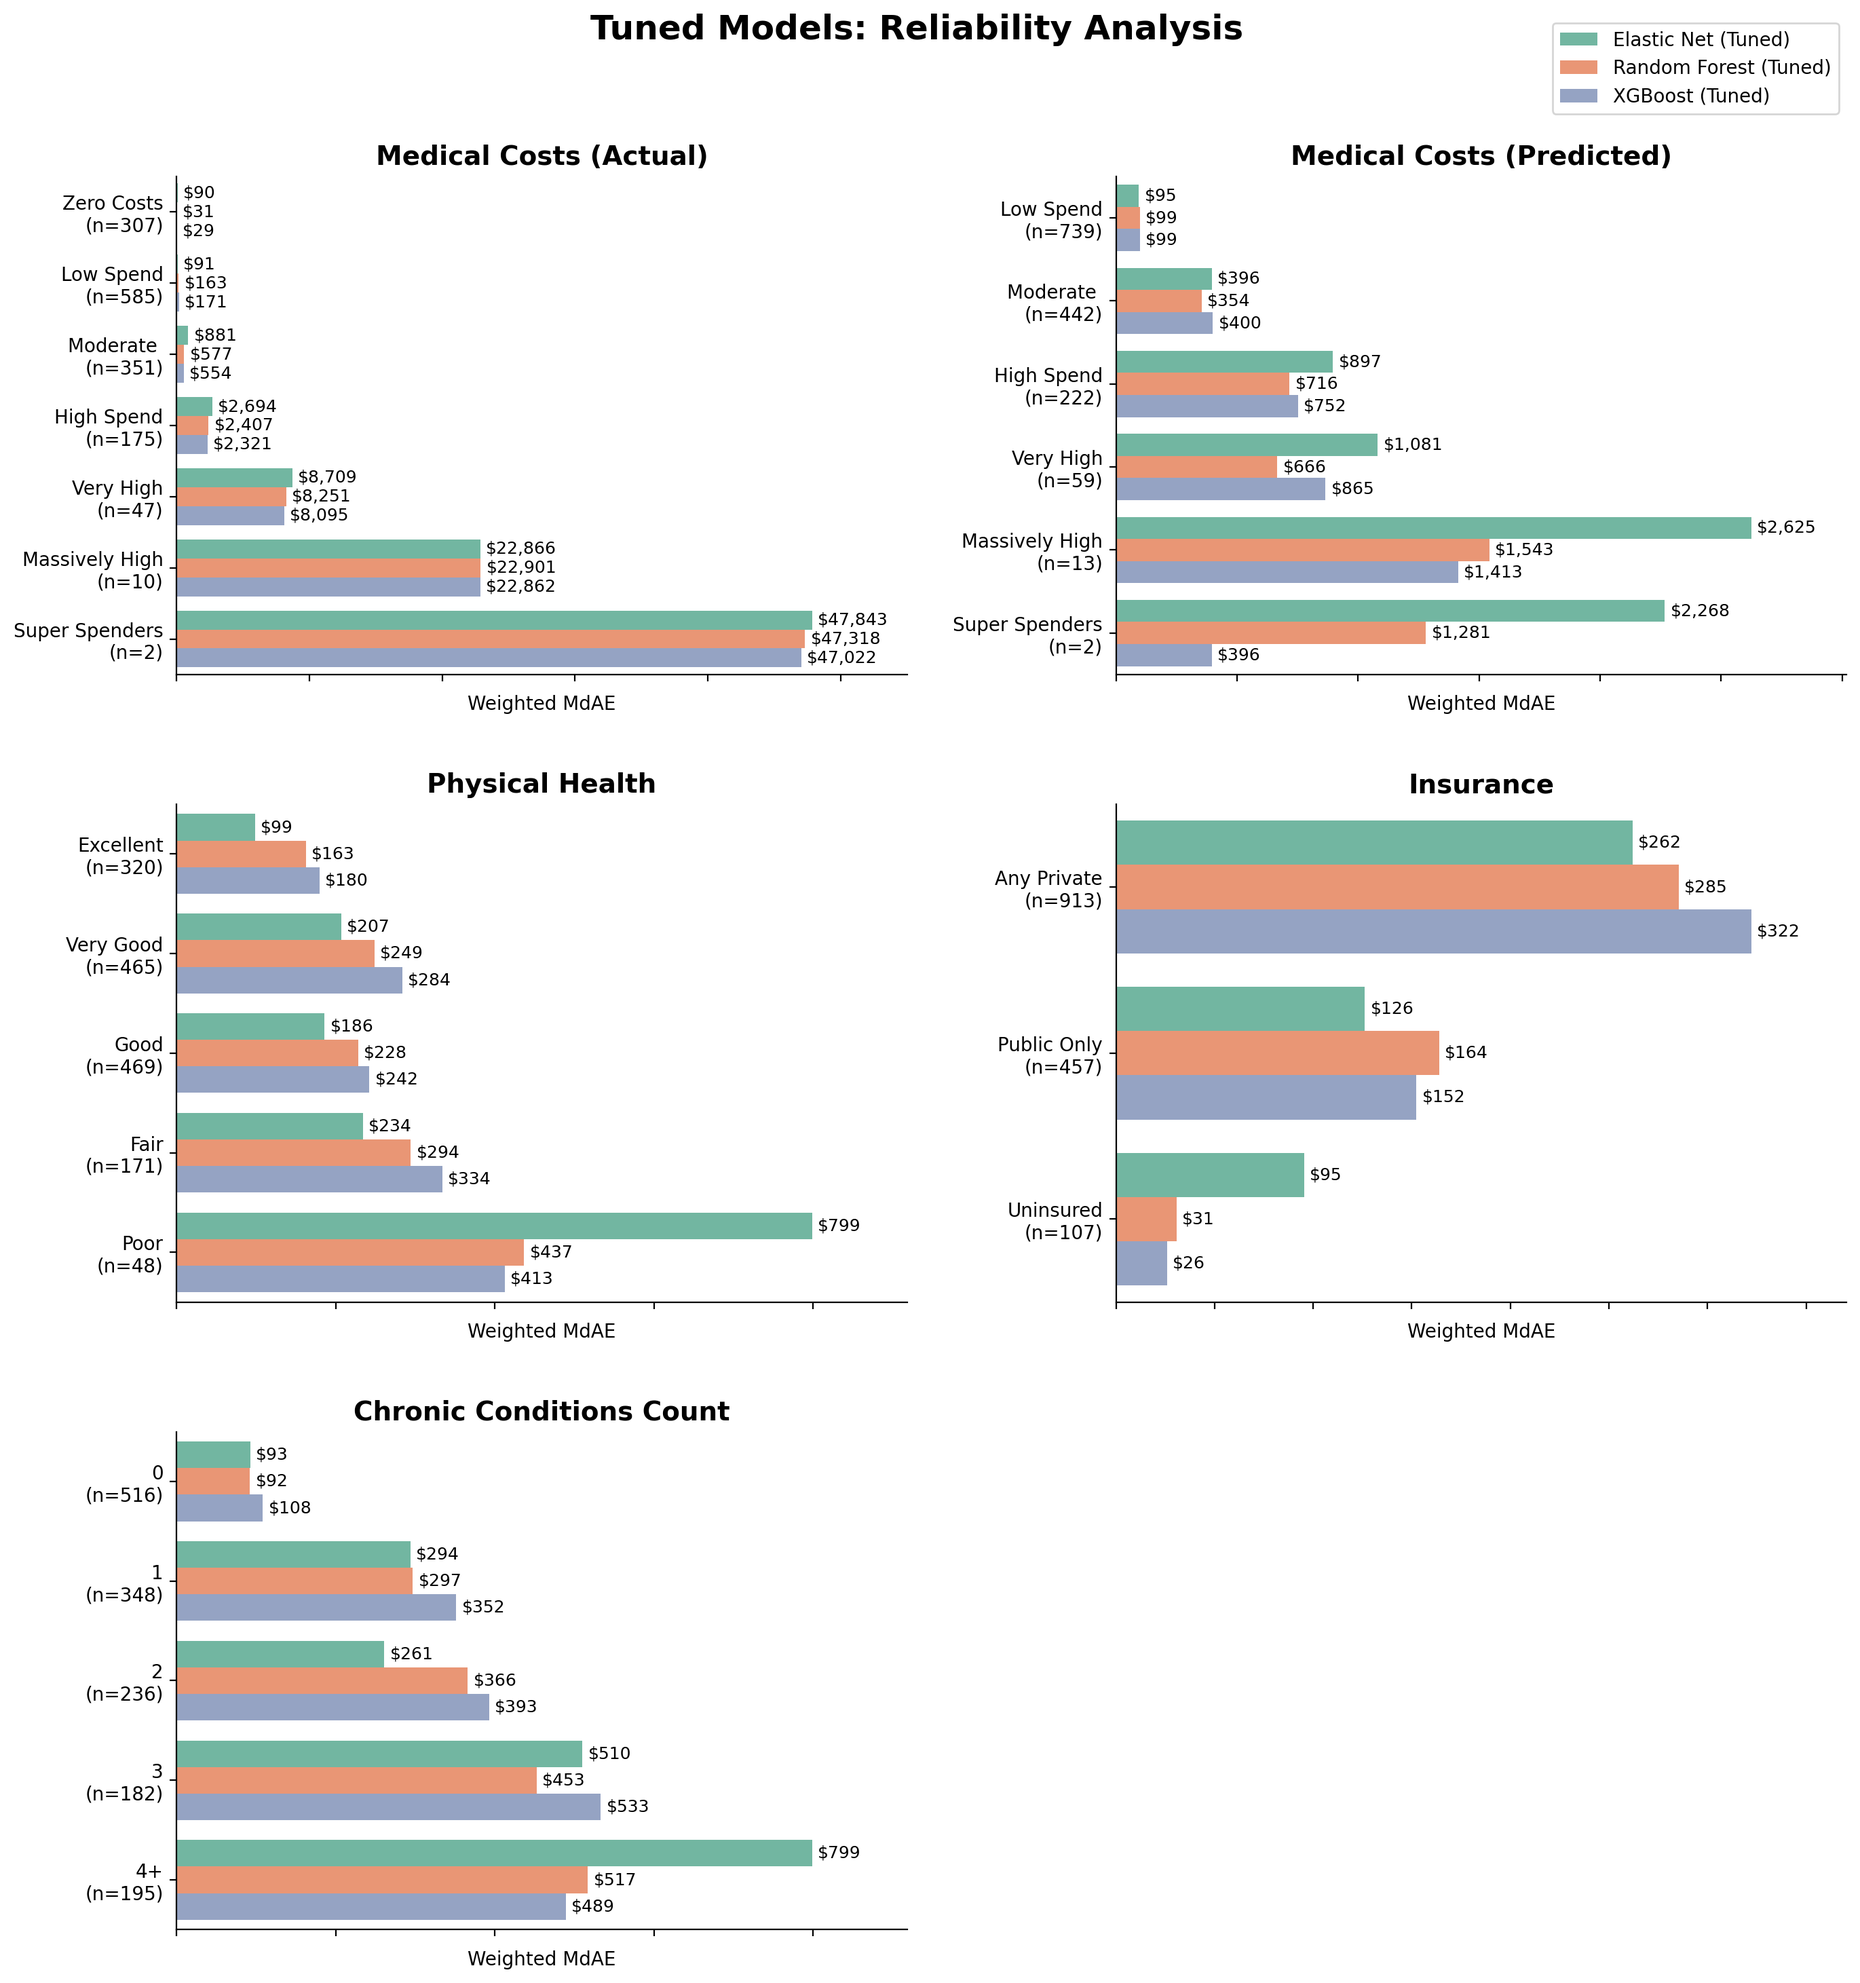
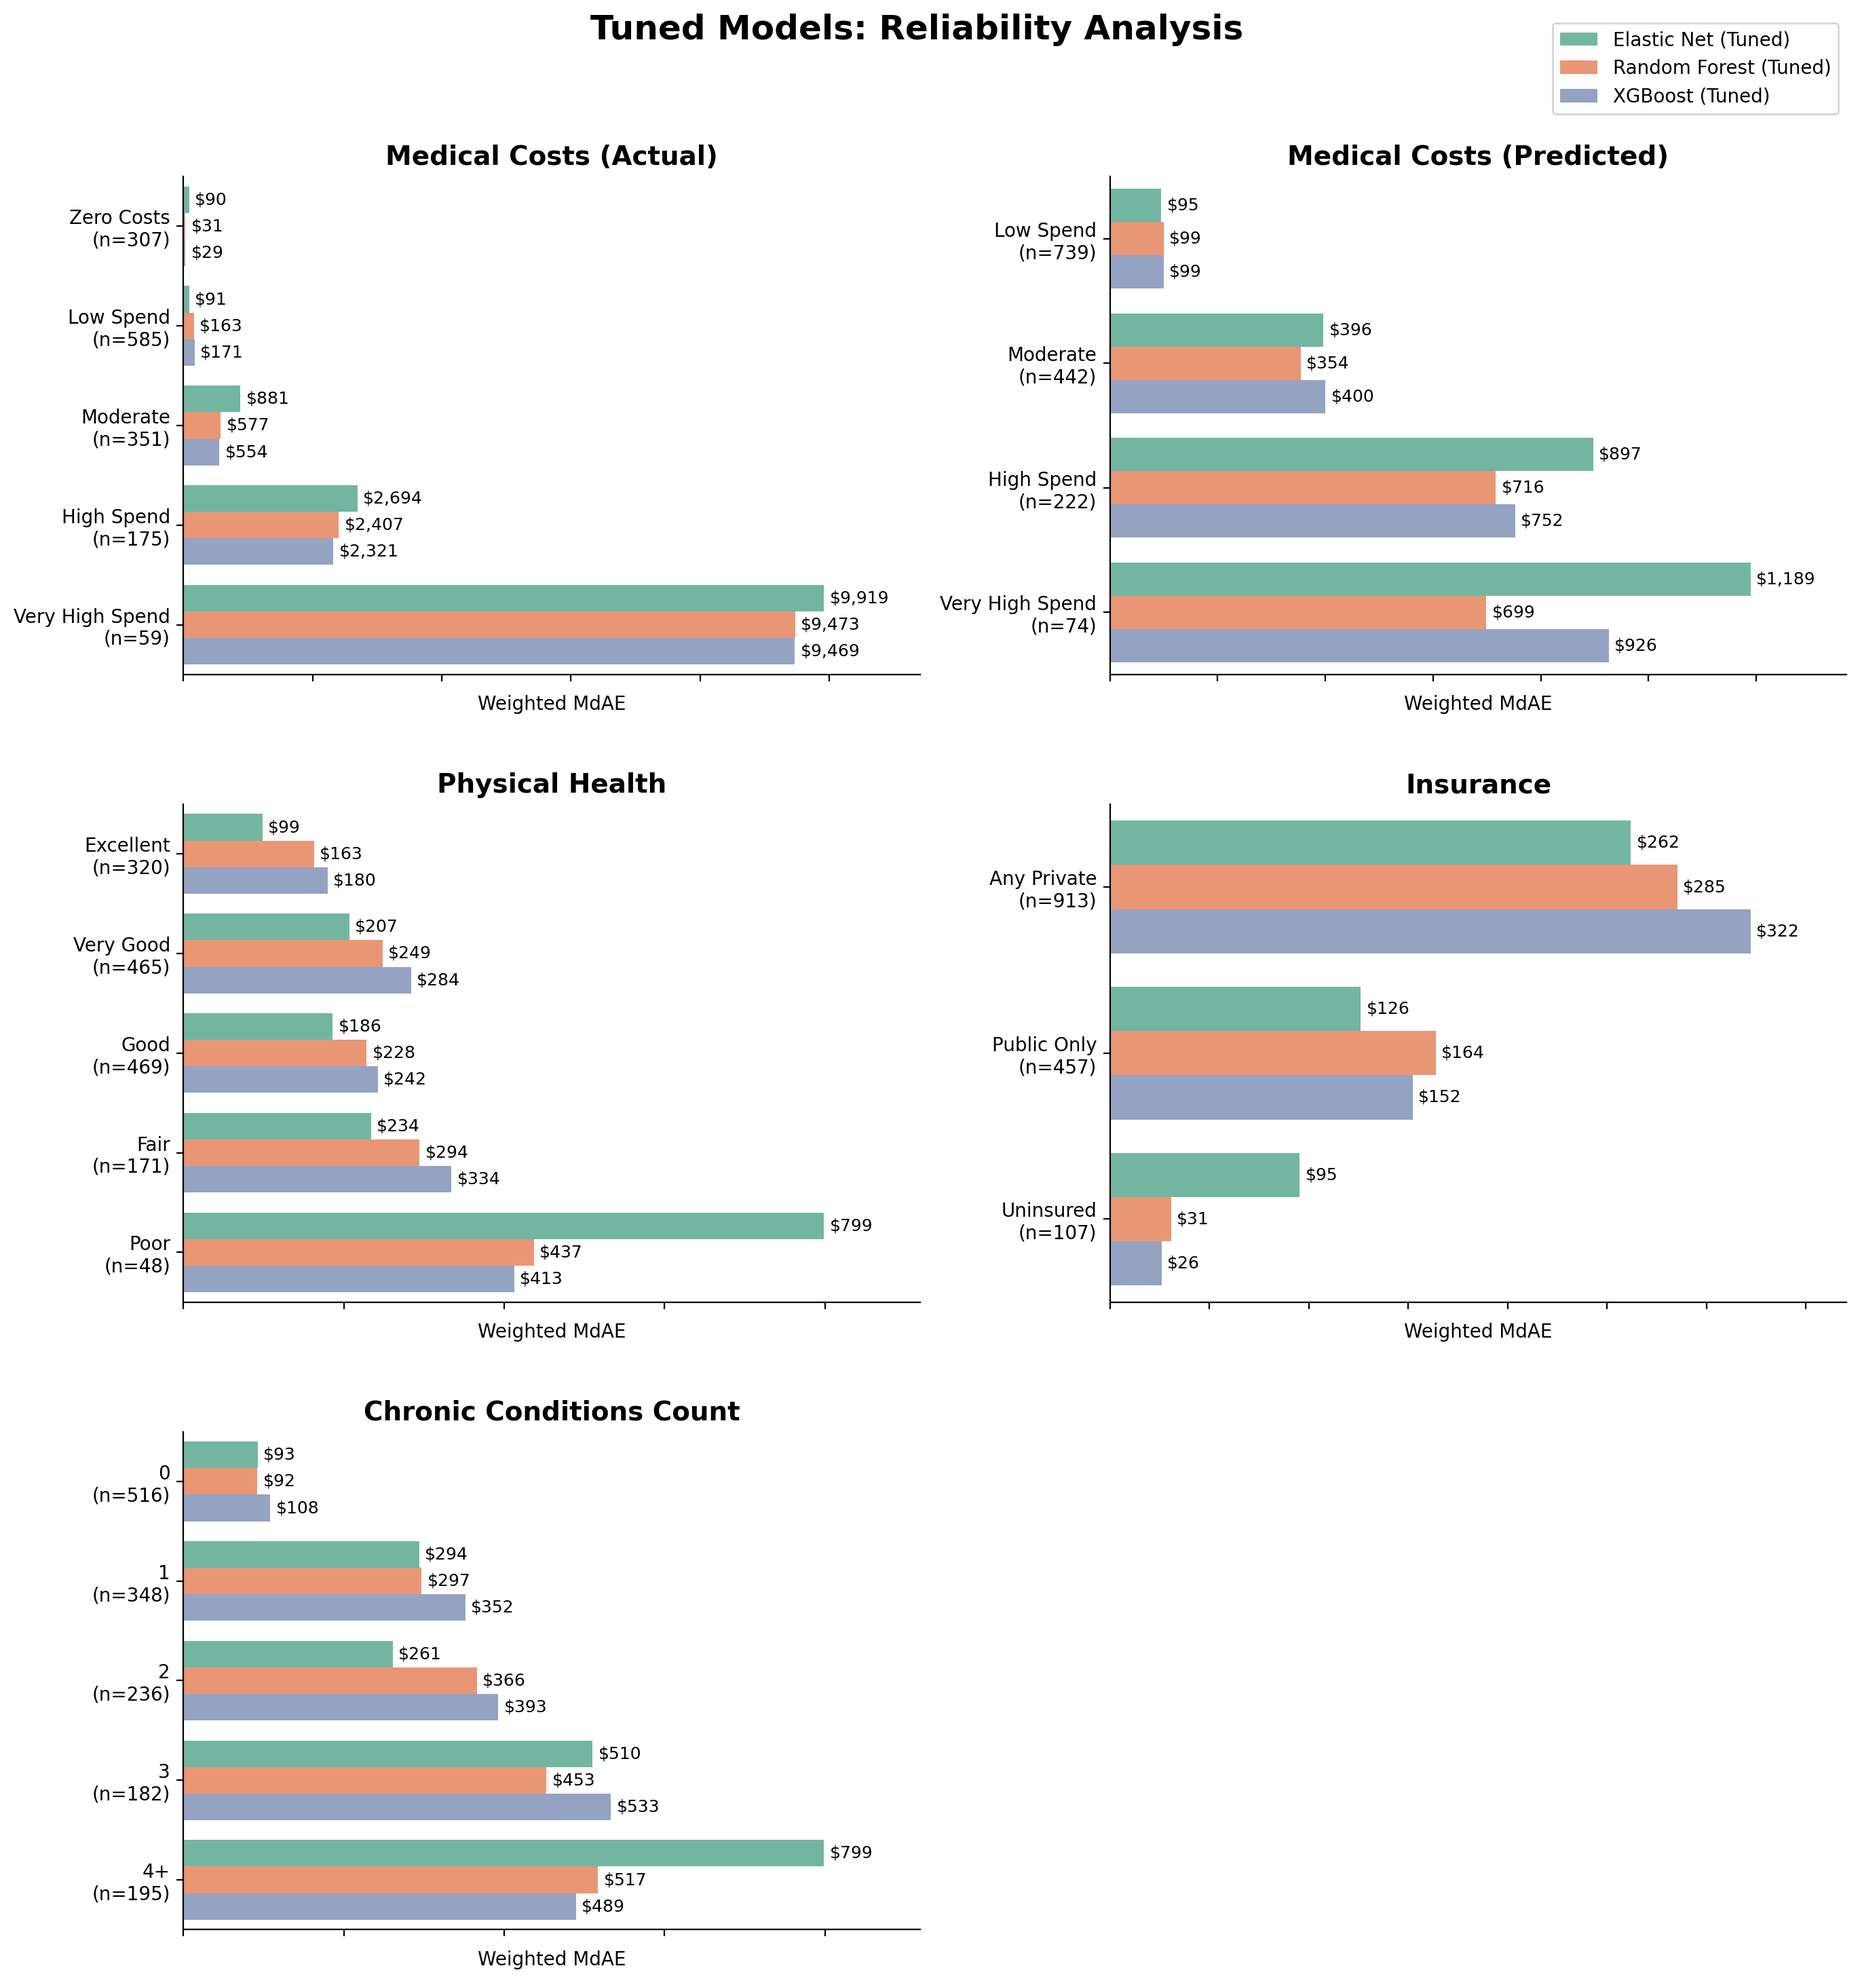
refactor(eval): create medical cost ranges for stratified error analysis by merging the top 5% spenders into single bin for more robust estimates (n>50) in modeling notebook
Update model reliability figure.

diff --git a/notebooks/2_modeling.py b/notebooks/2_modeling.py
@@ -1685,22 +1685,22 @@ tuned_model_predictions = {
     "XGBoost (Tuned)": load_model("../models/xgb_tuned_predictions.joblib", verbose=False)
 }
 
-# Create medical cost strata (consistent with preprocessing/EDA)
+# Create medical cost ranges for reporting 
+# NOTE: Using same create_stratification_bins function as for train-val-test split, but merge the
+# Top 5% extreme tail (bins 4, 5, 6) to ensure a robust sample size (n > 50) for MdAE estimates.
 COST_BIN_LABELS = {
     0: "Zero Costs",
     1: "Low Spend (0-50%)",
-    2: "Moderate  (50-80%)",
+    2: "Moderate (50-80%)",
     3: "High Spend (80-95%)",
-    4: "Very High (95-99%)",
-    5: "Massively High (99-99.9%)",
-    6: "Super Spenders (Top 0.1%)"
+    4: "Very High Spend (Top 5%)"
 }
-df_raw_val["ACTUAL_COSTS"] = create_stratification_bins(y_val_true)
+df_raw_val["ACTUAL_COSTS"] = create_stratification_bins(y_val_true).map({0:0, 1:1, 2:2, 3:3, 4:4, 5:4, 6:4}) 
 
 # Create predicted cost strata for XGBoost (as a representative non-linear benchmark)
 y_val_pred_xgb = tuned_model_predictions["XGBoost (Tuned)"]
 y_val_pred_series = pd.Series(y_val_pred_xgb, index=y_val_true.index)  # Converts y_val_pred numpy array to Series for index-alignment later
-df_raw_val["PREDICTED_COSTS"] = create_stratification_bins(y_val_pred_series)
+df_raw_val["PREDICTED_COSTS"] = create_stratification_bins(y_val_pred_series).map({0:0, 1:1, 2:2, 3:3, 4:4, 5:4, 6:4})
 
 
 # --- Define Stratified Error Configurations ---
